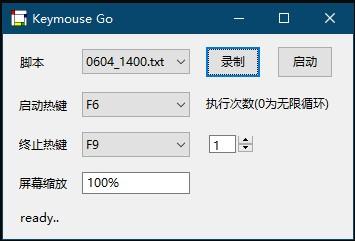
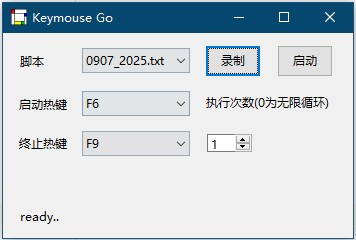
hide scale entry

diff --git a/Frame1.py b/Frame1.py
@@ -159,13 +159,13 @@ class Frame1(wx.Frame):
               id=wxID_FRAME1CHOICE_STOP)
 
         # ===== if use SetProcessDpiAwareness, comment below =====
-        self.label_scale = wx.StaticText(id=wxID_FRAME1STATICTEXT5,
-              label='屏幕缩放', name='staticText5',
-              parent=self.panel1, pos=wx.Point(16, 141), size=wx.Size(56, 32),
-              style=0)
-        self.text_scale = wx.TextCtrl(id=wxID_FRAME1TEXTCTRL3, name='textCtrl3',
-              parent=self.panel1, pos=wx.Point(79, 138), size=wx.Size(108, 22),
-              style=0, value='100%')
+        # self.label_scale = wx.StaticText(id=wxID_FRAME1STATICTEXT5,
+        #       label='屏幕缩放', name='staticText5',
+        #       parent=self.panel1, pos=wx.Point(16, 141), size=wx.Size(56, 32),
+        #       style=0)
+        # self.text_scale = wx.TextCtrl(id=wxID_FRAME1TEXTCTRL3, name='textCtrl3',
+        #       parent=self.panel1, pos=wx.Point(79, 138), size=wx.Size(108, 22),
+        #       style=0, value='100%')
         # =========================================================
 
     def __init__(self, parent):
@@ -461,10 +461,6 @@ class RunScriptClass(threading.Thread):
 
         for i in range(steps):
 
-            # for old style script
-            if isinstance(s[i][0], str) and isinstance(s[i][3], int):
-                s[i].insert(0, s[i][3])
-
             print(s[i])
 
             delay = s[i][0]
@@ -476,7 +472,7 @@ class RunScriptClass(threading.Thread):
             
             if thd:
                 current_status = thd.frame.tnumrd.GetLabel()
-                if  current_status in ['broken', 'finished']:
+                if current_status in ['broken', 'finished']:
                     break
                 thd.event.wait()
                 text = '%s  [%d/%d %d/%d]' % (thd.running_text, i+1, steps, thd.j, thd.run_times)
@@ -484,8 +480,10 @@ class RunScriptClass(threading.Thread):
 
             if event_type == 'EM':
                 x, y = action
+
                 # ctypes.windll.user32.SetCursorPos(x, y)
                 # win32api.SetCursorPos([x, y])
+
                 nx = int(x * 65535 / sw)
                 ny = int(y * 65535 / sh)
                 win32api.mouse_event(win32con.MOUSEEVENTF_ABSOLUTE|win32con.MOUSEEVENTF_MOVE, nx, ny, 0, 0)

diff --git a/README.md b/README.md
@@ -1,4 +1,4 @@
-# KeymouseGo v2.2
+# KeymouseGo v3.0
 
 功能：记录用户的鼠标键盘操作，通过触发按钮自动执行之前记录的操作，可设定执行的次数，可以理解为 `精简绿色版` 的 `按键精灵`。
 
@@ -50,7 +50,7 @@
 6、`scripts` 下的脚本文件内容可以修改，修改时可参考如下所述 `脚本格式说明`。
 
 
-# 脚本格式说明：
+# 脚本语法说明：
 
 ```
 [
@@ -92,21 +92,6 @@
 > KeymouseGo.exe scripts/0314_1452.txt 3
 ```
 
-
-# 设定屏幕缩放比例：
-
-win10 系统的用户通常会修改屏幕的缩放比例，见下图
-
-<img src="https://raw.githubusercontent.com/taojy123/KeymouseGo/master/scale.png" width="386">
-
-在修改了缩放比例后，录制的脚本时会出现坐标偏移的问题
-
-具体参看此 issue: https://github.com/taojy123/KeymouseGo/issues/8
-
-目前解决方案是，在 `屏幕缩放` 文本框中填写响应的值，比如 `125%`，然后再进行录制即可！
-
-
-
 ----------------------
 
 # 赞赏支持
@@ -119,7 +104,7 @@ win10 系统的用户通常会修改屏幕的缩放比例，见下图
 
 <img src="https://raw.githubusercontent.com/taojy123/KeymouseGo/master/donate.png" width="600">
 
-感谢下列支持者:
+感谢以下支持者:
 
 <a href="https://github.com/liran319"><img src="https://avatars1.githubusercontent.com/u/4019372?s=50&v=4" height="50"></a>
 <a href="https://github.com/WU731642061"><img src="https://avatars1.githubusercontent.com/u/30043630?s=50&v=4" height="50"></a>
@@ -132,26 +117,23 @@ win10 系统的用户通常会修改屏幕的缩放比例，见下图
 
 ----------------------
 
-# 已知的一些问题
-
-`pynput` 在 `macOS` 上有兼容性问题，发现无法同时监听鼠标和键盘事件的时候。
-
-经过简单的验证发现：
-- 单纯的同时监听鼠标和键盘事件，没有问题
-- 在 wxpython 中只监听鼠标事件，没有问题
-- 在 wxpython 中只监听键盘事件，没有问题
-- 在 wxpython 中同时监听键盘事件，有几率会报错，并无法正常监听键盘事件
-- 暂时找不到解决方案，可能要考虑找 pynput 的替代品
-
-详见此 issue https://github.com/moses-palmer/pynput/issues/55
-
-
-----------------------
-
 # 更新说明
 
-
 暂时没法打包 `x86` 版本，32 位系统的同学请自行源码编译，或 [下载v1.5老版本](https://github.com/taojy123/KeymouseGo/releases/tag/v1.5) 使用
+
+
+## v3.0
+
+因为兼容 macOS 遇到的很大的阻碍，最终放弃跨平台，血泪史可参看这两个 issue:
+https://github.com/taojy123/KeymouseGo/issues/24
+https://github.com/moses-palmer/pynput/issues/55
+
++ 改回使用 `win32api` 库，只支持 windows 系统
++ 因为使用了 `win32api`，屏幕缩放比例不再需要手动设置
++ 录制脚本语法有部分改动，不向前兼容
++ 解决了 `shift` + `上下左右` 的回放问题，见 https://github.com/taojy123/KeymouseGo/issues/27
++ 录制鼠标路径 todo
++ 文字输入功能 todo
 
 
 ## v2.2
